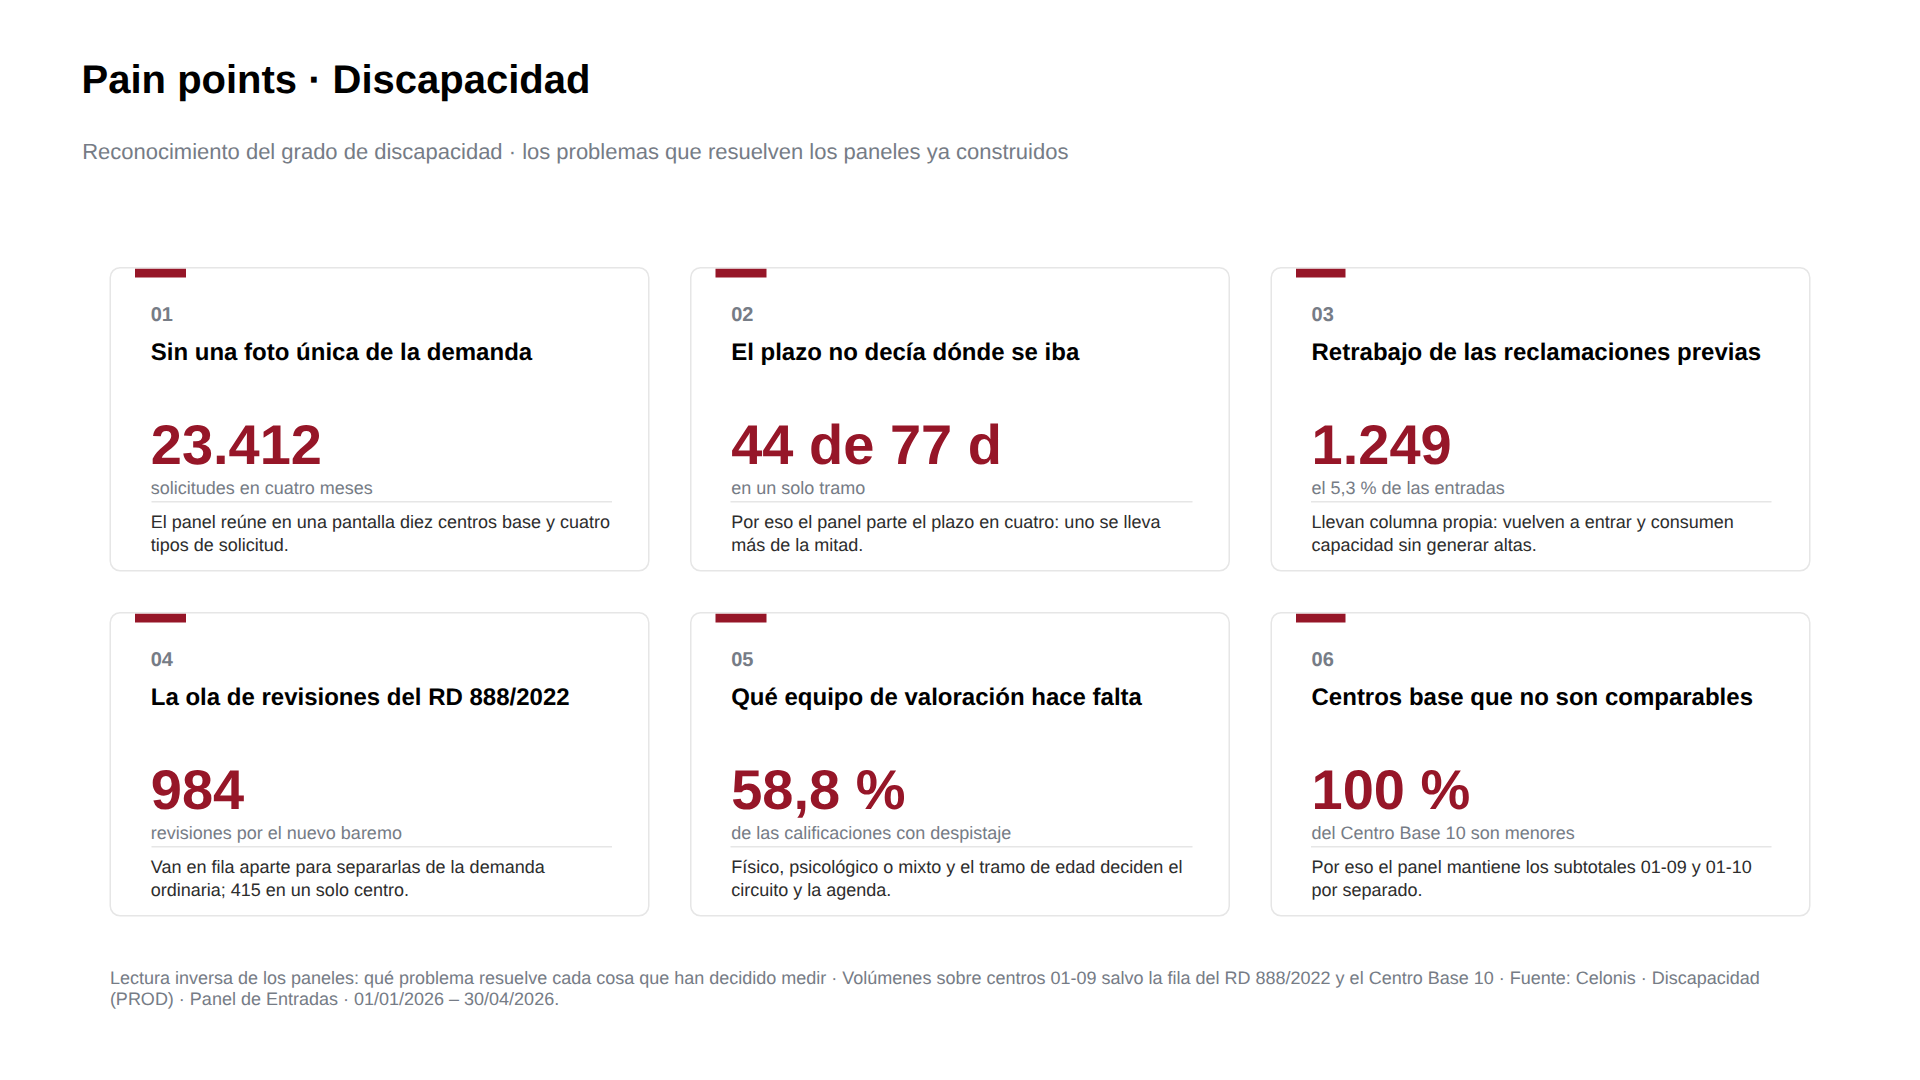
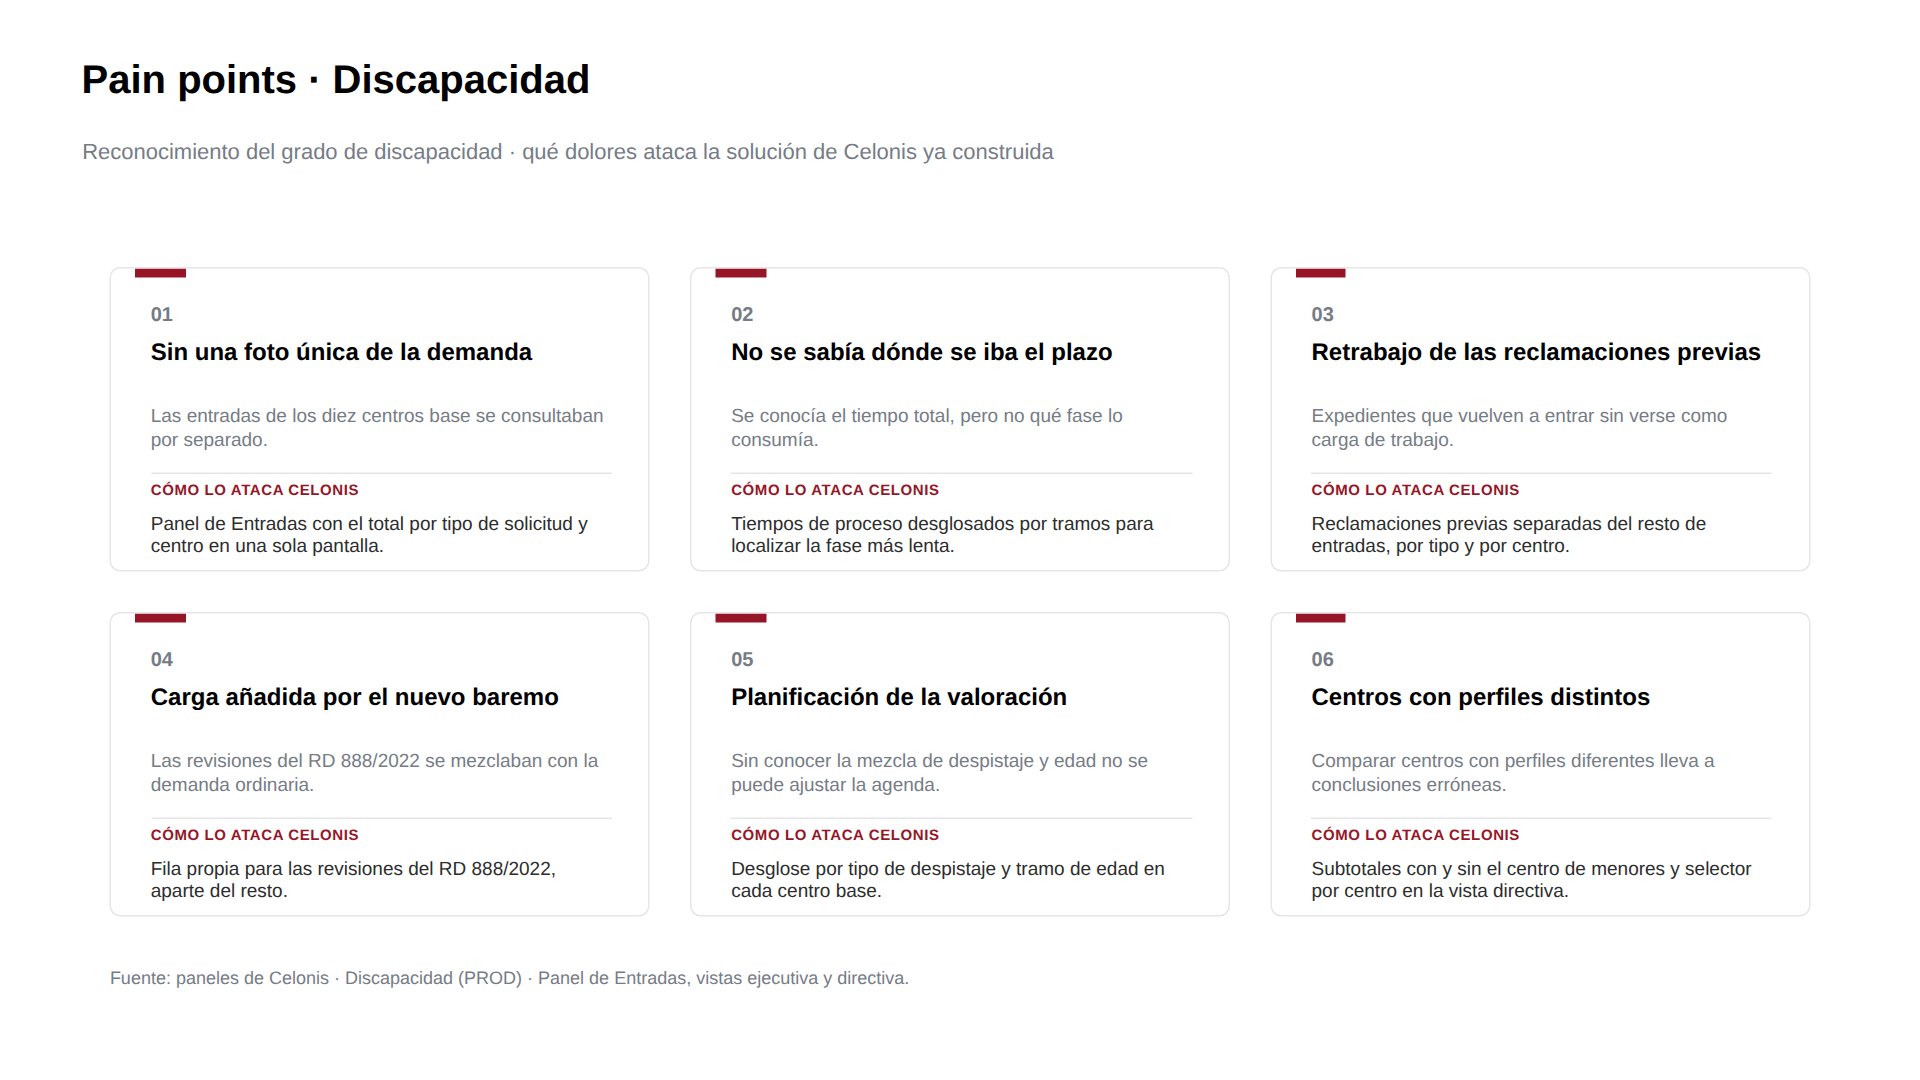
Discapacidad: pain points sin cifras, con lo que ataca Celonis
Cada tarjeta recoge el dolor en una línea y, debajo, qué hace el panel de
Celonis ya construido para resolverlo. Se quitan los números a petición
del equipo, para una lectura más sencilla.

Claude-Session: https://claude.ai/code/session_012PCcGQXYr4PR8xb2pBrhox

diff --git a/deck/preview_disca.html b/deck/preview_disca.html
@@ -1,14 +1,6 @@
-<!doctype html><meta charset="utf-8"><style>*{margin:0;padding:0;box-sizing:border-box}
-body{background:#5a5a5a;font-family:'Century Gothic','Questrial','Futura','Trebuchet MS',sans-serif;padding:26px;display:flex;justify-content:center}
-.sl{position:relative;width:1280px;height:720px;background:#fff;box-shadow:0 6px 22px rgba(0,0,0,.35)}
-.t{position:absolute;left:54.4px;top:37.86px;font-size:20pt;font-weight:700;color:#000}
-.s{position:absolute;left:54.79px;top:94.49px;font-size:11pt;color:#767C86}
-.card{position:absolute;background:#fff;border:1px solid #E6E6E6;border-radius:7px;overflow:hidden}
-.bar{position:absolute;top:0;background:#961628}
-.n{position:absolute;font-size:10pt;font-weight:700;color:#767C86}
-.ti{position:absolute;font-size:12pt;font-weight:700;color:#000;line-height:1.15}
-.ci{position:absolute;font-size:28pt;font-weight:700;color:#961628;line-height:1}
-.un{position:absolute;font-size:9pt;color:#767C86}
-.ln{position:absolute;height:1px;background:#E6E6E6}
-.q{position:absolute;font-size:9pt;color:#2D2D2D;line-height:1.25}
-.pie{position:absolute;font-size:9pt;color:#767C86}</style><div class="sl"><div class="t">Pain points · Discapacidad</div><div class="s">Reconocimiento del grado de discapacidad · los problemas que resuelven los paneles ya construidos</div><div class="card" style="left:73.26px;top:178.48px;width:359.63px;height:202.62px"><div class="bar" style="left:15.75px;width:33.6px;height:5.46px"></div><div class="n" style="left:26.25px;top:22.57px">01</div><div class="ti" style="left:26.25px;top:47.24px;width:307.13px">Sin una foto única de la demanda</div><div class="ci" style="left:26.25px;top:98.69px;width:307.13px">23.412</div><div class="un" style="left:26.25px;top:138.58px;width:307.13px">solicitudes en cuatro meses</div><div class="ln" style="left:26.25px;top:154.33px;width:307.13px"></div><div class="q" style="left:26.25px;top:161.15px;width:307.13px">El panel reúne en una pantalla diez centros base y cuatro tipos de solicitud.</div></div><div class="card" style="left:460.19px;top:178.48px;width:359.63px;height:202.62px"><div class="bar" style="left:15.75px;width:33.6px;height:5.46px"></div><div class="n" style="left:26.25px;top:22.57px">02</div><div class="ti" style="left:26.25px;top:47.24px;width:307.13px">El plazo no decía dónde se iba</div><div class="ci" style="left:26.25px;top:98.69px;width:307.13px">44 de 77 d</div><div class="un" style="left:26.25px;top:138.58px;width:307.13px">en un solo tramo</div><div class="ln" style="left:26.25px;top:154.33px;width:307.13px"></div><div class="q" style="left:26.25px;top:161.15px;width:307.13px">Por eso el panel parte el plazo en cuatro: uno se lleva más de la mitad.</div></div><div class="card" style="left:847.11px;top:178.48px;width:359.63px;height:202.62px"><div class="bar" style="left:15.75px;width:33.6px;height:5.46px"></div><div class="n" style="left:26.25px;top:22.57px">03</div><div class="ti" style="left:26.25px;top:47.24px;width:307.13px">Retrabajo de las reclamaciones previas</div><div class="ci" style="left:26.25px;top:98.69px;width:307.13px">1.249</div><div class="un" style="left:26.25px;top:138.58px;width:307.13px">el 5,3 % de las entradas</div><div class="ln" style="left:26.25px;top:154.33px;width:307.13px"></div><div class="q" style="left:26.25px;top:161.15px;width:307.13px">Llevan columna propia: vuelven a entrar y consumen capacidad sin generar altas.</div></div><div class="card" style="left:73.26px;top:408.4px;width:359.63px;height:202.62px"><div class="bar" style="left:15.75px;width:33.6px;height:5.46px"></div><div class="n" style="left:26.25px;top:22.57px">04</div><div class="ti" style="left:26.25px;top:47.24px;width:307.13px">La ola de revisiones del RD 888/2022</div><div class="ci" style="left:26.25px;top:98.69px;width:307.13px">984</div><div class="un" style="left:26.25px;top:138.58px;width:307.13px">revisiones por el nuevo baremo</div><div class="ln" style="left:26.25px;top:154.33px;width:307.13px"></div><div class="q" style="left:26.25px;top:161.15px;width:307.13px">Van en fila aparte para separarlas de la demanda ordinaria; 415 en un solo centro.</div></div><div class="card" style="left:460.19px;top:408.4px;width:359.63px;height:202.62px"><div class="bar" style="left:15.75px;width:33.6px;height:5.46px"></div><div class="n" style="left:26.25px;top:22.57px">05</div><div class="ti" style="left:26.25px;top:47.24px;width:307.13px">Qué equipo de valoración hace falta</div><div class="ci" style="left:26.25px;top:98.69px;width:307.13px">58,8 %</div><div class="un" style="left:26.25px;top:138.58px;width:307.13px">de las calificaciones con despistaje</div><div class="ln" style="left:26.25px;top:154.33px;width:307.13px"></div><div class="q" style="left:26.25px;top:161.15px;width:307.13px">Físico, psicológico o mixto y el tramo de edad deciden el circuito y la agenda.</div></div><div class="card" style="left:847.11px;top:408.4px;width:359.63px;height:202.62px"><div class="bar" style="left:15.75px;width:33.6px;height:5.46px"></div><div class="n" style="left:26.25px;top:22.57px">06</div><div class="ti" style="left:26.25px;top:47.24px;width:307.13px">Centros base que no son comparables</div><div class="ci" style="left:26.25px;top:98.69px;width:307.13px">100 %</div><div class="un" style="left:26.25px;top:138.58px;width:307.13px">del Centro Base 10 son menores</div><div class="ln" style="left:26.25px;top:154.33px;width:307.13px"></div><div class="q" style="left:26.25px;top:161.15px;width:307.13px">Por eso el panel mantiene los subtotales 01-09 y 01-10 por separado.</div></div><div class="pie" style="left:73.26px;top:644.62px;width:1133.47px">Lectura inversa de los paneles: qué problema resuelve cada cosa que han decidido medir · Volúmenes sobre centros 01-09 salvo la fila del RD 888/2022 y el Centro Base 10 · Fuente: Celonis · Discapacidad (PROD) · Panel de Entradas · 01/01/2026 – 30/04/2026.</div></div>
+<!doctype html><meta charset="utf-8"><style>*{margin:0;padding:0;box-sizing:border-box}body{background:#5a5a5a;font-family:'Century Gothic','Questrial','Trebuchet MS',sans-serif;padding:26px;display:flex;justify-content:center}
+.sl{position:relative;width:1280px;height:720px;background:#fff}.t{position:absolute;left:54.4px;top:37.86px;font-size:20pt;font-weight:700}
+.s{position:absolute;left:54.79px;top:94.49px;font-size:11pt;color:#767C86}.card{position:absolute;border:1px solid #E6E6E6;border-radius:7px;overflow:hidden}
+.bar{position:absolute;top:0;background:#961628}.n{position:absolute;font-size:10pt;font-weight:700;color:#767C86}.ti{position:absolute;font-size:12pt;font-weight:700;line-height:1.15}
+.un{position:absolute;font-size:9.5pt;color:#767C86;line-height:1.25}.ln{position:absolute;height:1px;background:#E6E6E6}.lb{position:absolute;font-size:7.5pt;font-weight:700;color:#961628;letter-spacing:.04em}
+.q{position:absolute;font-size:9.5pt;color:#2D2D2D;line-height:1.25}.pie{position:absolute;font-size:9pt;color:#767C86}</style><div class="sl"><div class="t">Pain points · Discapacidad</div><div class="s">Reconocimiento del grado de discapacidad · qué dolores ataca la solución de Celonis ya construida</div><div class="card" style="left:73.26px;top:178.48px;width:359.63px;height:202.62px"><div class="bar" style="left:15.75px;width:33.6px;height:5.46px"></div><div class="n" style="left:26.25px;top:22.57px">01</div><div class="ti" style="left:26.25px;top:47.24px;width:307.13px">Sin una foto única de la demanda</div><div class="un" style="left:26.25px;top:90.29px;width:307.13px">Las entradas de los diez centros base se consultaban por separado.</div><div class="ln" style="left:26.25px;top:135.43px;width:307.13px"></div><div class="lb" style="left:26.25px;top:142.78px">CÓMO LO ATACA CELONIS</div><div class="q" style="left:26.25px;top:162.2px;width:307.13px">Panel de Entradas con el total por tipo de solicitud y centro en una sola pantalla.</div></div><div class="card" style="left:460.19px;top:178.48px;width:359.63px;height:202.62px"><div class="bar" style="left:15.75px;width:33.6px;height:5.46px"></div><div class="n" style="left:26.25px;top:22.57px">02</div><div class="ti" style="left:26.25px;top:47.24px;width:307.13px">No se sabía dónde se iba el plazo</div><div class="un" style="left:26.25px;top:90.29px;width:307.13px">Se conocía el tiempo total, pero no qué fase lo consumía.</div><div class="ln" style="left:26.25px;top:135.43px;width:307.13px"></div><div class="lb" style="left:26.25px;top:142.78px">CÓMO LO ATACA CELONIS</div><div class="q" style="left:26.25px;top:162.2px;width:307.13px">Tiempos de proceso desglosados por tramos para localizar la fase más lenta.</div></div><div class="card" style="left:847.11px;top:178.48px;width:359.63px;height:202.62px"><div class="bar" style="left:15.75px;width:33.6px;height:5.46px"></div><div class="n" style="left:26.25px;top:22.57px">03</div><div class="ti" style="left:26.25px;top:47.24px;width:307.13px">Retrabajo de las reclamaciones previas</div><div class="un" style="left:26.25px;top:90.29px;width:307.13px">Expedientes que vuelven a entrar sin verse como carga de trabajo.</div><div class="ln" style="left:26.25px;top:135.43px;width:307.13px"></div><div class="lb" style="left:26.25px;top:142.78px">CÓMO LO ATACA CELONIS</div><div class="q" style="left:26.25px;top:162.2px;width:307.13px">Reclamaciones previas separadas del resto de entradas, por tipo y por centro.</div></div><div class="card" style="left:73.26px;top:408.4px;width:359.63px;height:202.62px"><div class="bar" style="left:15.75px;width:33.6px;height:5.46px"></div><div class="n" style="left:26.25px;top:22.57px">04</div><div class="ti" style="left:26.25px;top:47.24px;width:307.13px">Carga añadida por el nuevo baremo</div><div class="un" style="left:26.25px;top:90.29px;width:307.13px">Las revisiones del RD 888/2022 se mezclaban con la demanda ordinaria.</div><div class="ln" style="left:26.25px;top:135.43px;width:307.13px"></div><div class="lb" style="left:26.25px;top:142.78px">CÓMO LO ATACA CELONIS</div><div class="q" style="left:26.25px;top:162.2px;width:307.13px">Fila propia para las revisiones del RD 888/2022, aparte del resto.</div></div><div class="card" style="left:460.19px;top:408.4px;width:359.63px;height:202.62px"><div class="bar" style="left:15.75px;width:33.6px;height:5.46px"></div><div class="n" style="left:26.25px;top:22.57px">05</div><div class="ti" style="left:26.25px;top:47.24px;width:307.13px">Planificación de la valoración</div><div class="un" style="left:26.25px;top:90.29px;width:307.13px">Sin conocer la mezcla de despistaje y edad no se puede ajustar la agenda.</div><div class="ln" style="left:26.25px;top:135.43px;width:307.13px"></div><div class="lb" style="left:26.25px;top:142.78px">CÓMO LO ATACA CELONIS</div><div class="q" style="left:26.25px;top:162.2px;width:307.13px">Desglose por tipo de despistaje y tramo de edad en cada centro base.</div></div><div class="card" style="left:847.11px;top:408.4px;width:359.63px;height:202.62px"><div class="bar" style="left:15.75px;width:33.6px;height:5.46px"></div><div class="n" style="left:26.25px;top:22.57px">06</div><div class="ti" style="left:26.25px;top:47.24px;width:307.13px">Centros con perfiles distintos</div><div class="un" style="left:26.25px;top:90.29px;width:307.13px">Comparar centros con perfiles diferentes lleva a conclusiones erróneas.</div><div class="ln" style="left:26.25px;top:135.43px;width:307.13px"></div><div class="lb" style="left:26.25px;top:142.78px">CÓMO LO ATACA CELONIS</div><div class="q" style="left:26.25px;top:162.2px;width:307.13px">Subtotales con y sin el centro de menores y selector por centro en la vista directiva.</div></div><div class="pie" style="left:73.26px;top:644.62px">Fuente: paneles de Celonis · Discapacidad (PROD) · Panel de Entradas, vistas ejecutiva y directiva.</div></div>

diff --git a/deck/build_discapacidad.py b/deck/build_discapacidad.py
@@ -60,6 +60,16 @@ def tarjeta(s, x, y, n, titulo, cifra, unidad, contexto, pregunta=False):
     filete.text_frame.text = ''
 
     txt(s, x + PAD, y + 215000, 400000, 200000, [(f'{n:02d}', True, GRIS, 10)])
+    if cifra is None:
+        W = CARD_W - 2 * PAD
+        txt(s, x + PAD, y + 450000, W, 480000, [(titulo, True, NEGRO, 12)], interlineado=1.15)
+        txt(s, x + PAD, y + 860000, W, 380000, [(unidad, False, GRIS, 9.5)], interlineado=1.25)
+        ln = s.shapes.add_shape(MSO_SHAPE.RECTANGLE, Emu(x + PAD), Emu(y + 1290000), Emu(W), Emu(9525))
+        ln.fill.solid(); ln.fill.fore_color.rgb = BORDE
+        ln.line.fill.background(); ln.shadow.inherit = False; ln.text_frame.text = ''
+        txt(s, x + PAD, y + 1360000, W, 170000, [('CÓMO LO ATACA CELONIS', True, GRANATE, 7.5)])
+        txt(s, x + PAD, y + 1545000, W, 340000, [(contexto, False, PREG, 9.5)], interlineado=1.25)
+        return
     txt(s, x + PAD, y + 450000, CARD_W - 2 * PAD, 480000,
         [(titulo, True, NEGRO, 12)], interlineado=1.15)
     txt(s, x + PAD, y + 940000, CARD_W - 2 * PAD, 400000,
@@ -98,28 +108,26 @@ def slide_dolores(prs, layout, titulo, subtitulo, dolores, pie=None, preguntas=F
 #  Cifras leídas de los paneles de Celonis (PROD), periodo 01/01–30/04/2026.
 # ════════════════════════════════════════════════════════════════════════
 DISCA = [
-    ('Sin una foto única de la demanda',
-     '23.412', 'solicitudes en cuatro meses',
-     'El panel reúne en una pantalla diez centros base y cuatro tipos de solicitud.'),
-    ('El plazo no decía dónde se iba',
-     '44 de 77 d', 'en un solo tramo',
-     'Por eso el panel parte el plazo en cuatro: uno se lleva más de la mitad.'),
-    ('Retrabajo de las reclamaciones previas',
-     '1.249', 'el 5,3 % de las entradas',
-     'Llevan columna propia: vuelven a entrar y consumen capacidad sin generar altas.'),
-    ('La ola de revisiones del RD 888/2022',
-     '984', 'revisiones por el nuevo baremo',
-     'Van en fila aparte para separarlas de la demanda ordinaria; 415 en un solo centro.'),
-    ('Qué equipo de valoración hace falta',
-     '58,8 %', 'de las calificaciones con despistaje',
-     'Físico, psicológico o mixto y el tramo de edad deciden el circuito y la agenda.'),
-    ('Centros base que no son comparables',
-     '100 %', 'del Centro Base 10 son menores',
-     'Por eso el panel mantiene los subtotales 01-09 y 01-10 por separado.'),
+    ('Sin una foto única de la demanda', None,
+     'Las entradas de los diez centros base se consultaban por separado.',
+     'Panel de Entradas con el total por tipo de solicitud y centro en una sola pantalla.'),
+    ('No se sabía dónde se iba el plazo', None,
+     'Se conocía el tiempo total, pero no qué fase lo consumía.',
+     'Tiempos de proceso desglosados por tramos para localizar la fase más lenta.'),
+    ('Retrabajo de las reclamaciones previas', None,
+     'Expedientes que vuelven a entrar sin verse como carga de trabajo.',
+     'Reclamaciones previas separadas del resto de entradas, por tipo y por centro.'),
+    ('Carga añadida por el nuevo baremo', None,
+     'Las revisiones del RD 888/2022 se mezclaban con la demanda ordinaria.',
+     'Fila propia para las revisiones del RD 888/2022, aparte del resto.'),
+    ('Planificación de la valoración', None,
+     'Sin conocer la mezcla de despistaje y edad no se puede ajustar la agenda.',
+     'Desglose por tipo de despistaje y tramo de edad en cada centro base.'),
+    ('Centros con perfiles distintos', None,
+     'Comparar centros con perfiles diferentes lleva a conclusiones erróneas.',
+     'Subtotales con y sin el centro de menores y selector por centro en la vista directiva.'),
 ]
-PIE = ('Lectura inversa de los paneles: qué problema resuelve cada cosa que han decidido medir · '
-       'Volúmenes sobre centros 01-09 salvo la fila del RD 888/2022 y el Centro Base 10 · '
-       'Fuente: Celonis · Discapacidad (PROD) · Panel de Entradas · 01/01/2026 – 30/04/2026.')
+PIE = ('Fuente: paneles de Celonis · Discapacidad (PROD) · Panel de Entradas, vistas ejecutiva y directiva.')
 
 prs = Presentation('entrada.pptx')
 layout = prs.slide_masters[0].slide_layouts[3]
@@ -138,7 +146,7 @@ for par in ph.text_frame.paragraphs:
 
 slide_dolores(prs, layout,
               'Pain points · Discapacidad',
-              'Reconocimiento del grado de discapacidad · los problemas que resuelven los paneles ya construidos',
+              'Reconocimiento del grado de discapacidad · qué dolores ataca la solución de Celonis ya construida',
               DISCA, PIE, preguntas=True)
 
 # ── orden: portada, índice, CU1, CU2, Discapacidad, cierre ──────────────
